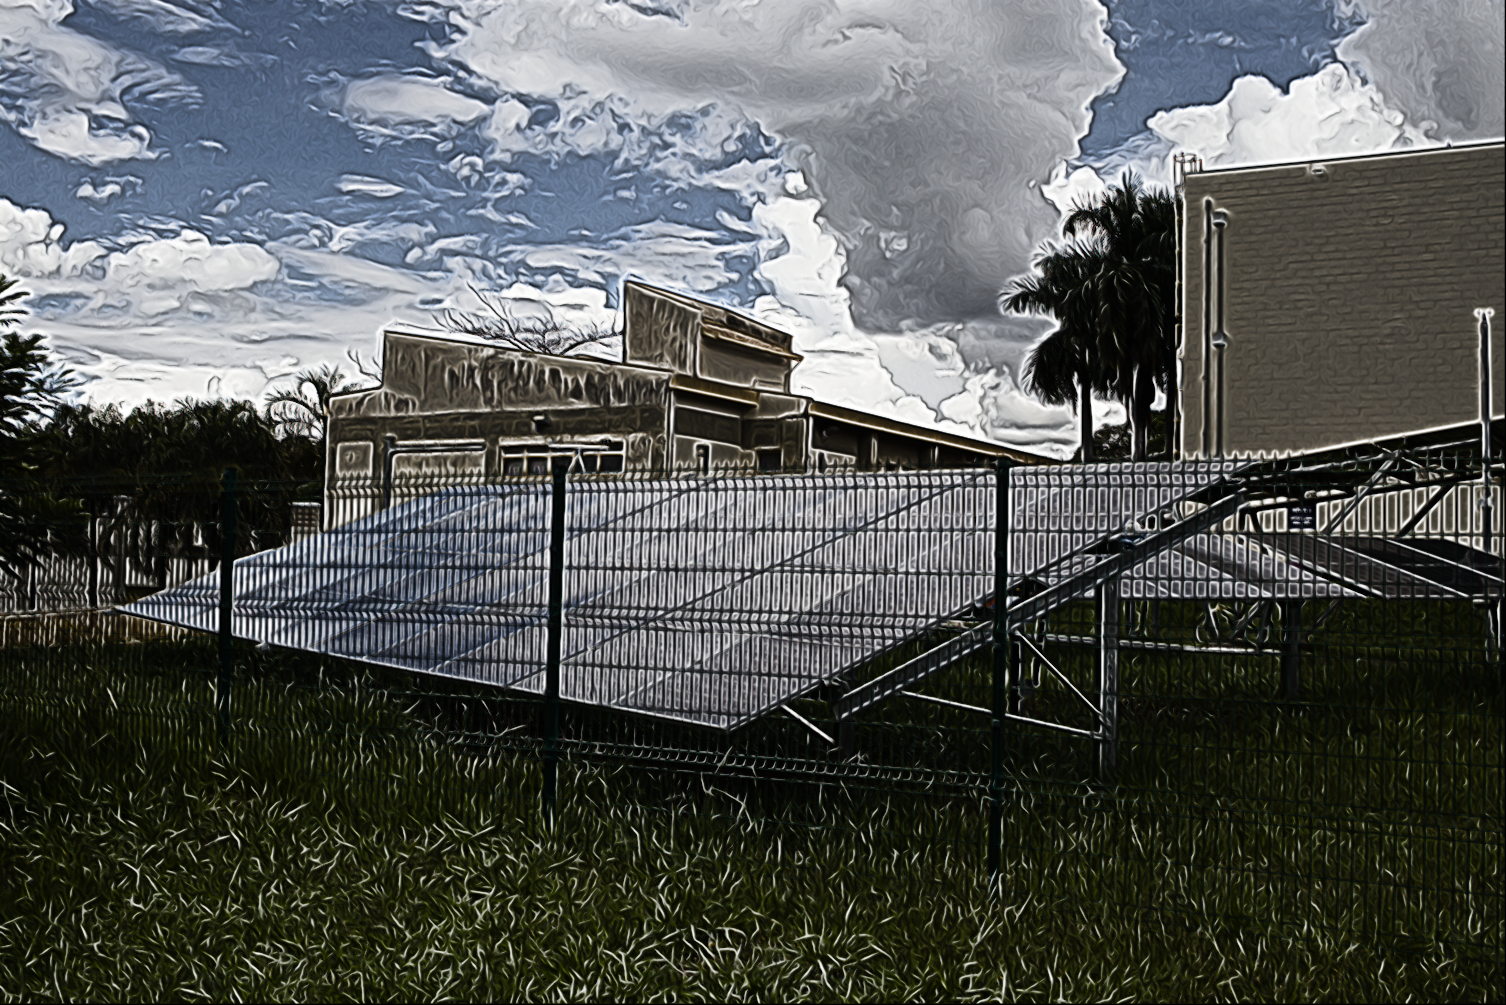
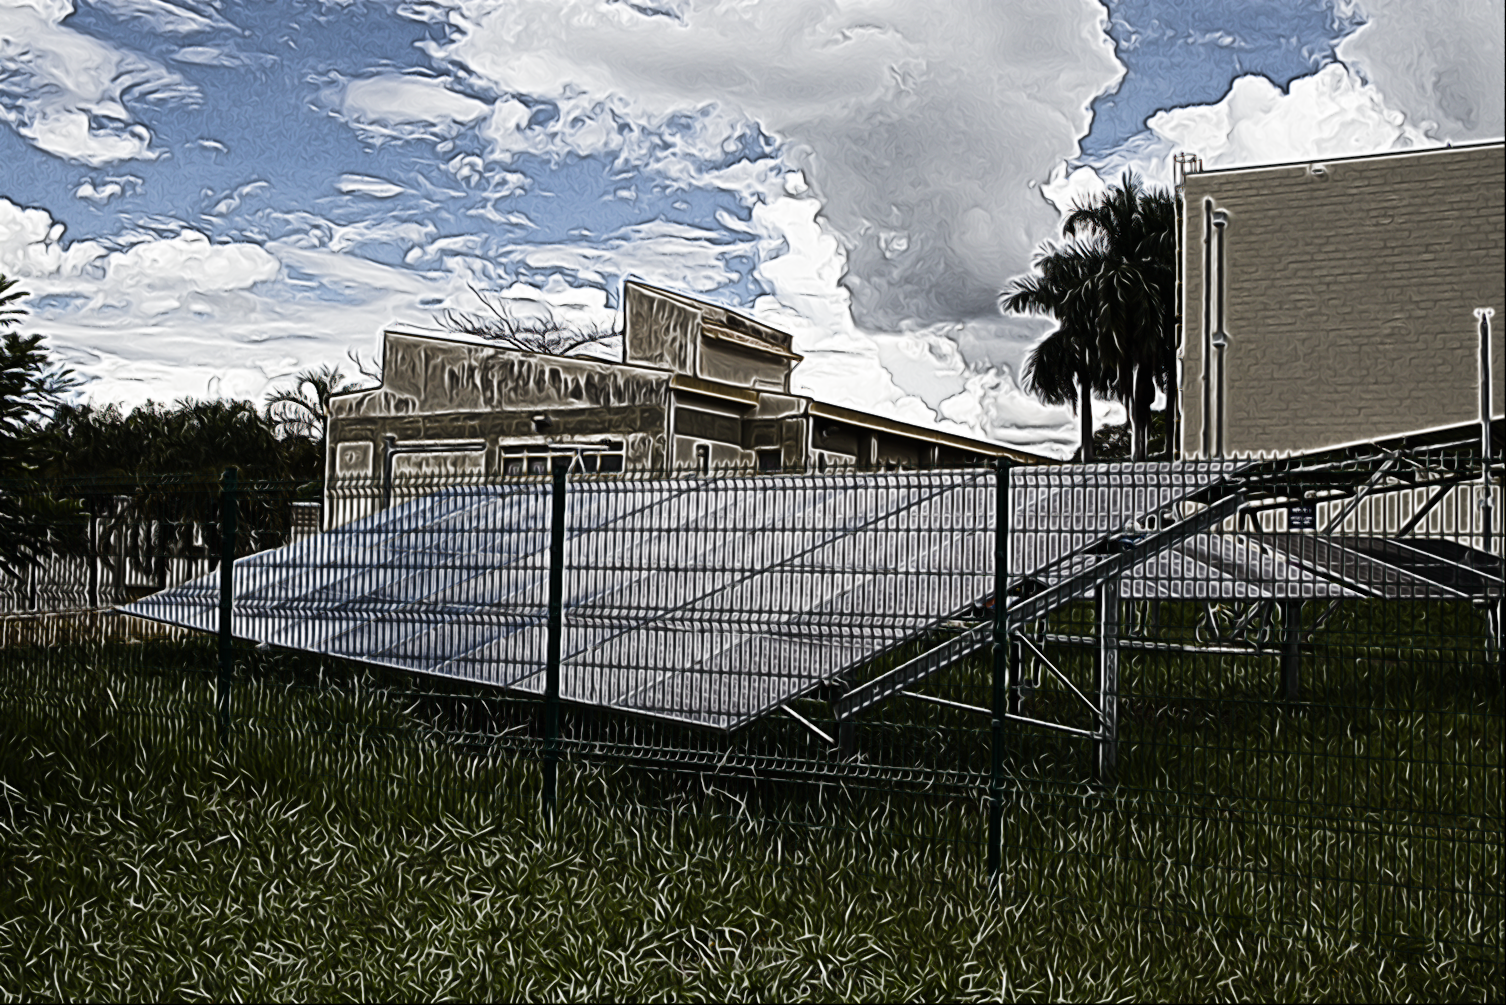
Já passou da data, mas ficaram legais os efeitos com cores

diff --git a/src/unicamp_effects/effects/260382.py b/src/unicamp_effects/effects/260382.py
@@ -42,7 +42,7 @@ def difference_of_gaussians_flow_color(img: np.ndarray) -> np.ndarray:
 
 @register(prefix="260382")
 def difference_of_gaussians_flow_less_color(img: np.ndarray) -> np.ndarray:
-    return difference_of_gaussians_color(img, 1.0, 0.8, 3.2, 0.75, 120, 1.83, 0.9, )
+    return difference_of_gaussians_color(img, 1.0, 0.8, 3.2, 0.75, 120, 1.83, 0.87, )
 
 
 
